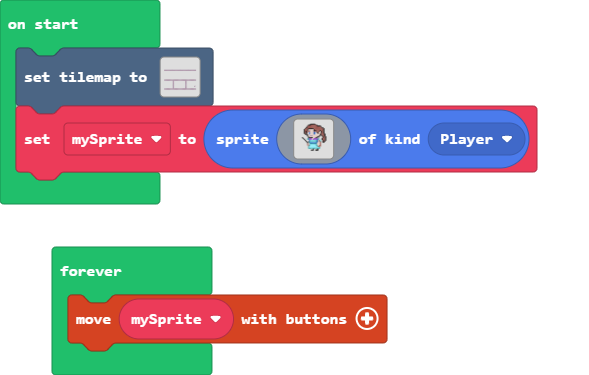
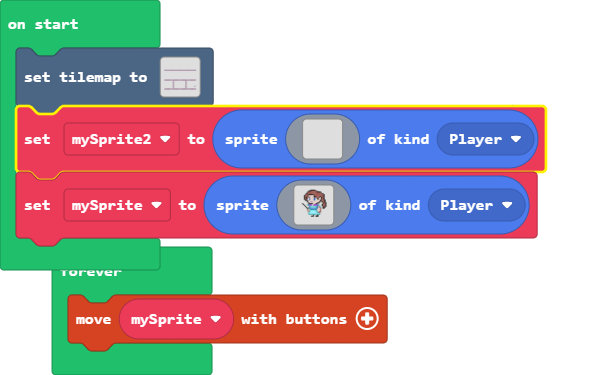
Update main.blocks, main.ts, images.g.jres, images.g.ts

diff --git a/images.g.ts b/images.g.ts
@@ -22,6 +22,162 @@ namespace myImages {
 . . . . . . . . . . . . . . . . 
 . . . . . . . . . . . . . . . . 
 `;
+            case "image2":
+            case "Character Right":return img`
+....................................
+................ffffff..............
+..............ffeeeeefff............
+..........ffffeeeeeeeeeef...........
+.........feeeeeeeeeeeeeeef..........
+........feeeeeeeeeeeeeeeeff.........
+........feeeeeeeeeffffffeeef........
+......ffeeeeeeeeefddddddfeeef.......
+......feeefeeeefffddddedfeeef.......
+......feefdfeeeeeeddddeeeefef.......
+......feefddeef188dddd81effef.......
+......feefddffd188dddd81dfeef.......
+.....feeeefdddd188dddd81dfff........
+.....feeeffdddddddddddddff..........
+.....feef..fdddddddbbbddf...........
+....feefef..ffdddddddddf............
+....feefef....ffdddfffff......f.....
+....feeeef..6aaaaaddaaa66....f......
+....feeef..968aaaaadaaa66...f.......
+....feef..9ed8699999998....f........
+.....fef..6ed8666666668...f.........
+......ff..edd8699999996f.f..........
+..........eddd888888886df...........
+..........eddd66666666dde...........
+..........eddd699999996de...........
+..........eed6699999996e............
+...........ee69999999996............
+...........6999999999996............
+...........6666666666666............
+.............f11..f11...............
+.............fff..fff...............
+....................................
+....................................
+....................................
+....................................
+....................................
+`;
+            case "T6p0*dXh_}j0tJQ:wb$z":
+            case "1":return img`
+....................................
+....................................
+....................................
+....................................
+....................................
+....................................
+....................................
+....................................
+....................................
+....................................
+....................................
+....................................
+....................................
+....................................
+....................................
+....................................
+....................................
+....................................
+....................................
+....................................
+....................................
+....................................
+....................................
+....................................
+....................................
+....................................
+....................................
+....................................
+....................................
+....................................
+....................................
+....................................
+....................................
+....................................
+....................................
+....................................
+`;
+            case "image3":
+            case "Character Left":return img`
+....................................
+..............ffffff................
+............fffeeeeeff..............
+...........feeeeeeeeeeffff..........
+..........feeeeeeeeeeeeeeef.........
+.........ffeeeeeeeeeeeeeeeef........
+........feeeffffffeeeeeeeeef........
+.......feeefddddddfeeeeeeeeeff......
+.......feeefdeddddfffeeeefeeef......
+.......fefeeeeddddeeeeeefdfeef......
+.......feffe18dddd881feeddfeef......
+.......feefd18dddd881dffddfeef......
+........fffd18dddd881ddddfeeeef.....
+..........ffdddddddddddddffeeef.....
+...........fddbbbdddddddf..feef.....
+............fdddddddddff..fefeef....
+.....f......fffffdddff....fefeef....
+......f....66aaaddaaaaa6..feeeef....
+.......f...66aaadaaaaa869..feeef....
+........f....8999999968de9..feef....
+.........f...8666666668de6..fef.....
+..........f.f6999999968dde..ff......
+...........fd688888888ddde..........
+...........edd66666666ddde..........
+...........ed699999996ddde..........
+............e6999999966dee..........
+............69999999996ee...........
+............6999999999996...........
+............6666666666666...........
+...............11f..11f.............
+...............fff..fff.............
+....................................
+....................................
+....................................
+....................................
+....................................
+`;
+            case "image4":
+            case "Character Scaring":return img`
+....................................
+.............f......fff.............
+.....fff....fff..ffffeef............
+....feeff...fef..feeefef............
+....ffeeff.feeffffeeffff.fff........
+......feef.feeeeeeeeeeefffefffff....
+......feef.feeffffffffeeeeeeeeeff...
+......feeffeefddddddddfeeeeeeefff...
+......feeeeeefddddddddfeeefffff.....
+......fffeeefddddddddddfeeef........
+........ffefdeeeddddeeedfeeffff.....
+.........fefddfffddfffddfeeeeeff....
+......ffffefddffddddffddfeeeeeef....
+......feeeefddffddddffddfeefffef....
+......feeeffddd2dbbd2dddffff.fef....
+.....ffefff.fdd2dbbd2ddf......ff....
+.....feef..eeffddbbddffee...........
+......fff.ed2eafd33dfaed2e..........
+..........ed2eaaaddaaaedde..........
+..........edde69999996edde..........
+..........e2dd66699996d2de..........
+...........eed69999966dee...........
+.............e66669966e.............
+..............68888886..............
+..............66666666..............
+..............69999996..............
+.............6669999966.............
+.............6996999996.............
+............669999999966............
+............699999999996............
+............666666666666............
+..............11f..f11..............
+..............fff..fff..............
+....................................
+....................................
+....................................
+`;
         }
         return null;
     })

diff --git a/main.ts b/main.ts
@@ -1,42 +1,23 @@
 tiles.setTilemap(tilemap`level2`)
-let mySprite = sprites.create(img`
-    ....................................
-    ..............ffffff................
-    ............fffeeeeeef..............
-    ...........feeeeeeeeeeffff..........
-    ..........feeeeeeeeeeeeeeef.........
-    .........ffeeeeeeeeeeeeeeeeff.......
-    ........feeeffffffeeeeeeeeeeef......
-    .......feeefddddddfeeeeeeeeeef......
-    .......feeefdeddddfffeeeefeeef......
-    .......fefeeeeddddeeeeeefdfeef......
-    .......feffe18dddd881feeddfeef......
-    .......feefd18dddd881dffddfeef......
-    ........fffd18dddd881ddddfeeeef.....
-    ..........ffdddddddddddddffeeef.....
-    ...........fddbbbdddddddf..feef.....
-    ............fdddddddddff....feef....
-    .....f......fffffdddff......feef....
-    ......f....66aaaddaaaaa6...feeef....
-    .......f...66aaadaaaaa869..feeef....
-    ........f....8999999968de9..feef....
-    .........f...8666666668de6..fef.....
-    ..........f.f6999999968dde..ff......
-    ...........fd688888888ddde..........
-    ...........edd66666666ddde..........
-    ...........ed699999996ddde..........
-    ............e6999999966dee..........
-    ............69999999996ee...........
-    ............6999999999996...........
-    ............6666666666666...........
-    ...............11f..11f.............
-    ...............fff..fff.............
-    ....................................
-    ....................................
-    ....................................
-    ....................................
-    ....................................
+let mySprite2 = sprites.create(img`
+    . . . . . . . . . . . . . . . . 
+    . . . . . . . . . . . . . . . . 
+    . . . . . . . . . . . . . . . . 
+    . . . . . . . . . . . . . . . . 
+    . . . . . . . . . . . . . . . . 
+    . . . . . . . . . . . . . . . . 
+    . . . . . . . . . . . . . . . . 
+    . . . . . . . . . . . . . . . . 
+    . . . . . . . . . . . . . . . . 
+    . . . . . . . . . . . . . . . . 
+    . . . . . . . . . . . . . . . . 
+    . . . . . . . . . . . . . . . . 
+    . . . . . . . . . . . . . . . . 
+    . . . . . . . . . . . . . . . . 
+    . . . . . . . . . . . . . . . . 
+    . . . . . . . . . . . . . . . . 
     `, SpriteKind.Player)
+let mySprite = sprites.create(assets.image`1`, SpriteKind.Player)
 forever(function () {
     controller.moveSprite(mySprite)
 })
